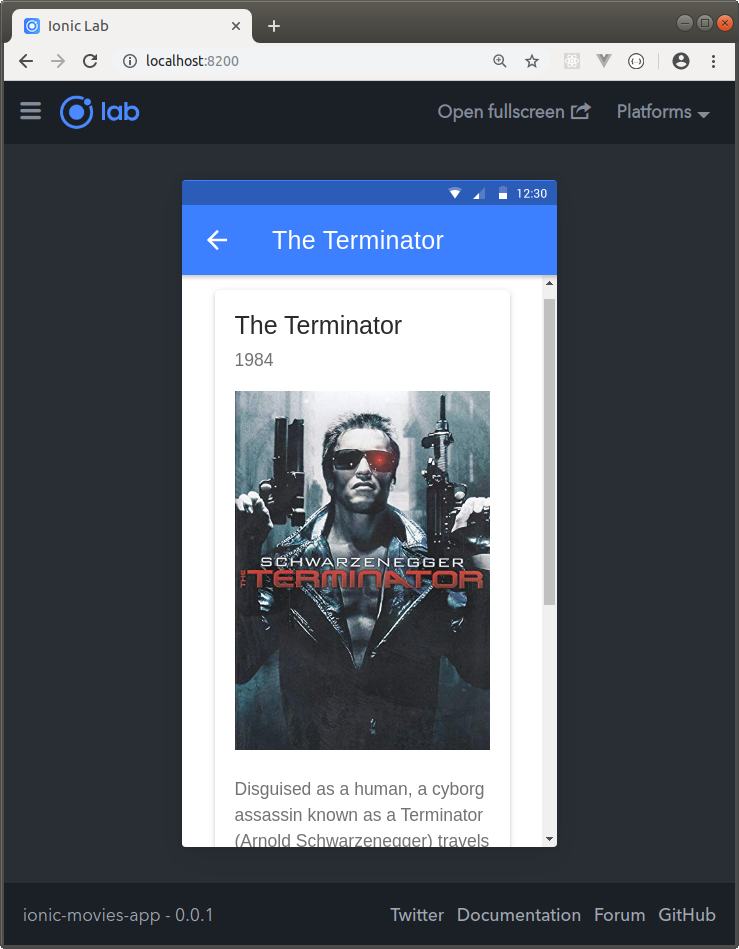
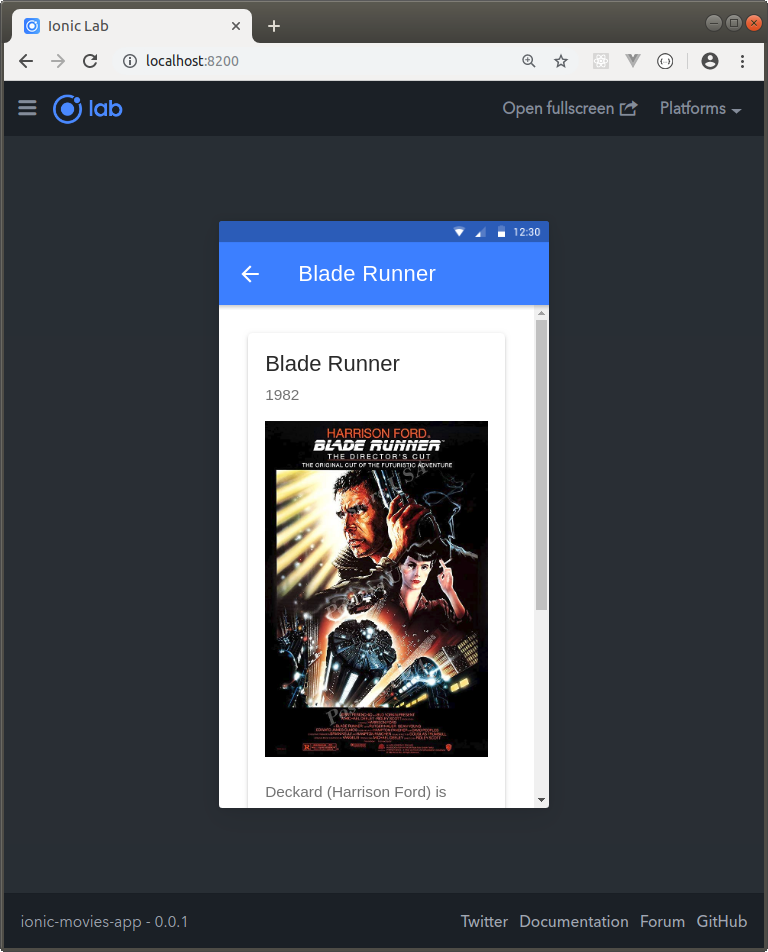
Se completa logica del infinite scroll en listado de movies y se completa visualizacion de movie details

diff --git a/src/app/pages/movies/movies.page.ts b/src/app/pages/movies/movies.page.ts
@@ -14,7 +14,7 @@ export class MoviesPage implements OnInit {
   genresList = [];
   selectedGenre = 0;
   page = 1;
-  totalPages = 3;
+  totalPages = 0;
 
   constructor(private movieService: MovieService) { }
 
@@ -42,21 +42,34 @@ export class MoviesPage implements OnInit {
   }
 
   loadMoviesByGenre(event?) {
-    const moviesObservable = this.movieService.getMoviesByGenre(this.selectedGenre, this.page);
-    moviesObservable.subscribe(
-      (data: any) => {
-        console.log('[MoviesPage][successful call to MovieService][movies: ' + data + ']');
-        this.moviesList = this.moviesList.concat(data);
-
-        if (event) {
+    if (event) {
+      const moviesObservable = this.movieService.getMoviesByGenre(this.selectedGenre, this.page);
+      moviesObservable.subscribe(
+        (data: any) => {
+          console.log('[MoviesPage][successful call to MovieService][movies: ' + data.items + ']');
+          this.moviesList = this.moviesList.concat(data.items);
+          this.totalPages = data.totalPages;
           event.target.complete();
+        },
+        (error) => {
+          console.log('[MoviesPage][Error code: ' + error.status + ']');
+          //this.message = error.message;
         }
-      },
-      (error) => {
-        console.log('[MoviesPage][Error code: ' + error.status + ']');
-        //this.message = error.message;
-      }
-    );
+      );
+    } else {
+      const moviesObservable = this.movieService.getMoviesByGenre(this.selectedGenre, this.page);
+      moviesObservable.subscribe(
+        (data: any) => {
+          console.log('[MoviesPage][successful call to MovieService][movies: ' + data.items + ']');
+          this.moviesList = data.items;
+          this.totalPages = data.totalPages;
+        },
+        (error) => {
+          console.log('[MoviesPage][Error code: ' + error.status + ']');
+          //this.message = error.message;
+        }
+      );
+    }
   }
 
   loadMoreMovies(event) {

diff --git a/src/app/services/movie.service.ts b/src/app/services/movie.service.ts
@@ -19,16 +19,16 @@ export class MovieService {
 
   getGenres() {
     console.log('[MovieService][getGenres][START]');
-    console.log('[MovieService][getGenres][genresUrlRestAPI: ' + environment.NODE_REST_API_URL + ']');
+    console.log('[MovieService][getGenres][genresUrlRestAPI: ' + environment.NODE_REST_API_URL_GENRES + ']');
 
-    const observable = this.httpClient.get(environment.NODE_REST_API_URL, this.httpOptions);
+    const observable = this.httpClient.get(environment.NODE_REST_API_URL_GENRES, this.httpOptions);
 
     console.log('[MovieService][getGenres][END]');
     return observable;
   }
 
   getMoviesByGenre(genreId: number, page: number) {
-    const apiUrl = environment.NODE_REST_API_URL + '/' + genreId + '/movies?page=' + page;
+    const apiUrl = environment.NODE_REST_API_URL_GENRES + '/' + genreId + '/movies?page=' + page;
 
     console.log('[MovieService][getMoviesByGenre][START]');
     console.log('[MovieService][getMoviesByGenre][genreId: ' + genreId + ']');
@@ -41,6 +41,17 @@ export class MovieService {
     return observable;
   }
 
+  getMovieById(movieId: any) {
+    const apiUrl = environment.NODE_REST_API_URL_MOVIES + '/' + movieId;
 
+    console.log('[MovieService][getMovieById][START]');
+    console.log('[MovieService][getMovieById][movieId: ' + movieId + ']');
+    console.log('[MovieService][getMovieById][apiUrl: ' + apiUrl + ']');
+
+    const observable = this.httpClient.get(apiUrl, this.httpOptions);
+
+    console.log('[MovieService][getMovieById][END]');
+    return observable;
+  }
 
 }

diff --git a/src/app/pages/movie-details/movie-details.page.html b/src/app/pages/movie-details/movie-details.page.html
@@ -3,24 +3,20 @@
     <ion-buttons slot="start">
       <ion-back-button defaultHref="/"></ion-back-button>
     </ion-buttons>
-    <ion-title>The Terminator</ion-title>
+    <ion-title *ngIf="movieDetails">{{ movieDetails.title }}</ion-title>
   </ion-toolbar>
 </ion-header>
 
-<ion-content padding>
-  <ion-card>
+<ion-content class="ion-padding">
+  <ion-card *ngIf="movieDetails">
     <ion-card-header>
-      <ion-card-title>The Terminator</ion-card-title>
-      <ion-card-subtitle>1984</ion-card-subtitle>
+      <ion-card-title>{{ movieDetails.title }}</ion-card-title>
+      <ion-card-subtitle>{{ movieDetails.year }}</ion-card-subtitle>
     </ion-card-header>
     <ion-card-content>  
-        <img src="https://images-na.ssl-images-amazon.com/images/I/A1wiVBc2VLL._SY550_.jpg" class="img-poster-size">
+      <img [src]="movieDetails.poster" class="img-poster-size">
         <br/>
-        <p>Disguised as a human, a cyborg assassin known as a Terminator (Arnold Schwarzenegger) travels from 2029 to 1984 
-          to kill Sarah Connor (Linda Hamilton). Sent to protect Sarah is Kyle Reese (Michael Biehn), who divulges the coming 
-          of Skynet, an artificial intelligence system that will spark a nuclear holocaust. 
-          Sarah is targeted because Skynet knows that her unborn son will lead the fight against them. 
-          With the virtually unstoppable Terminator in hot pursuit, she and Kyle attempt to escape.</p>
+        <p>{{ movieDetails.plot }}</p>
     </ion-card-content>
   </ion-card>
 </ion-content>

diff --git a/src/app/pages/movie-details/movie-details.page.ts b/src/app/pages/movie-details/movie-details.page.ts
@@ -1,4 +1,7 @@
 import { Component, OnInit } from '@angular/core';
+import { ActivatedRoute } from '@angular/router';
+import { MovieService } from './../../services/movie.service';
+import { Movie } from './../../model/movie';
 
 @Component({
   selector: 'app-movie-details',
@@ -7,9 +10,37 @@ import { Component, OnInit } from '@angular/core';
 })
 export class MovieDetailsPage implements OnInit {
 
-  constructor() { }
+  movieDetails: Movie = {
+    id: 0,
+    title: '',
+    year: 0,
+    poster: '',
+    plot: '',
+    genre_id: 0
+  };
+
+  flagLoading = true;
+  flagError = false;
+  errorMessage: string;
+
+  constructor(private activatedRoute: ActivatedRoute, private movieService: MovieService) { }
 
   ngOnInit() {
+    const movieId = this.activatedRoute.snapshot.paramMap.get('id');
+    console.log('[MovieDetailsPage][movieId: ' + movieId + ']');
+
+    const movieObservable = this.movieService.getMovieById(movieId);
+    movieObservable.subscribe(
+      (data: any) => {
+        console.log('[MovieDetailsPage][movie: ' + data.items[0].title + ']');
+        this.movieDetails = data.items[0];
+      },
+      (error) => {
+        console.log('[MovieDetailsPage][Error code: ' + error.status + ']');
+        this.flagError = true;
+        this.errorMessage = error.message;
+      }
+    );
   }
 
 }

diff --git a/src/app/pages/movies/movies.page.html b/src/app/pages/movies/movies.page.html
@@ -16,12 +16,10 @@
       <ion-avatar slot="start">
         <img [src]="movie.poster">
       </ion-avatar>
-
-      <ion-label text-wrap>
+      <ion-label class="ion-text-wrap">
         <h3>{{ movie.title }}</h3>
         {{ movie.year }}
       </ion-label>
-
       <ion-icon slot="end" name="videocam"></ion-icon>
     </ion-item>
   </ion-list>

diff --git a/src/environments/environment.ts b/src/environments/environment.ts
@@ -1,4 +1,5 @@
 export const environment = {
   production: false,
-  NODE_REST_API_URL: 'http://localhost:5555/api/genres'
+  NODE_REST_API_URL_GENRES: 'http://localhost:5555/api/genres',
+  NODE_REST_API_URL_MOVIES: 'http://localhost:5555/api/movies'
 };

diff --git a/src/app/model/movie.ts b/src/app/model/movie.ts
@@ -4,5 +4,5 @@ export class Movie {
     poster: string;
     year: number;
     plot: string;
-    idGenre: number;
+    genre_id: number;
 }

diff --git a/README.md b/README.md
@@ -9,7 +9,7 @@ Aplicación desarrollada con Ionic 4 que despliega información de películas.
 
 Pantalla que despliega listado de películas:
 
-![Screenshot MovieList](screenshots/ionic-lab-movies-list.png)
+![Screenshot MovieList](screenshots/ionic-lab-movies.png)
 
 
 Pantalla que despliega detalle de una película:
